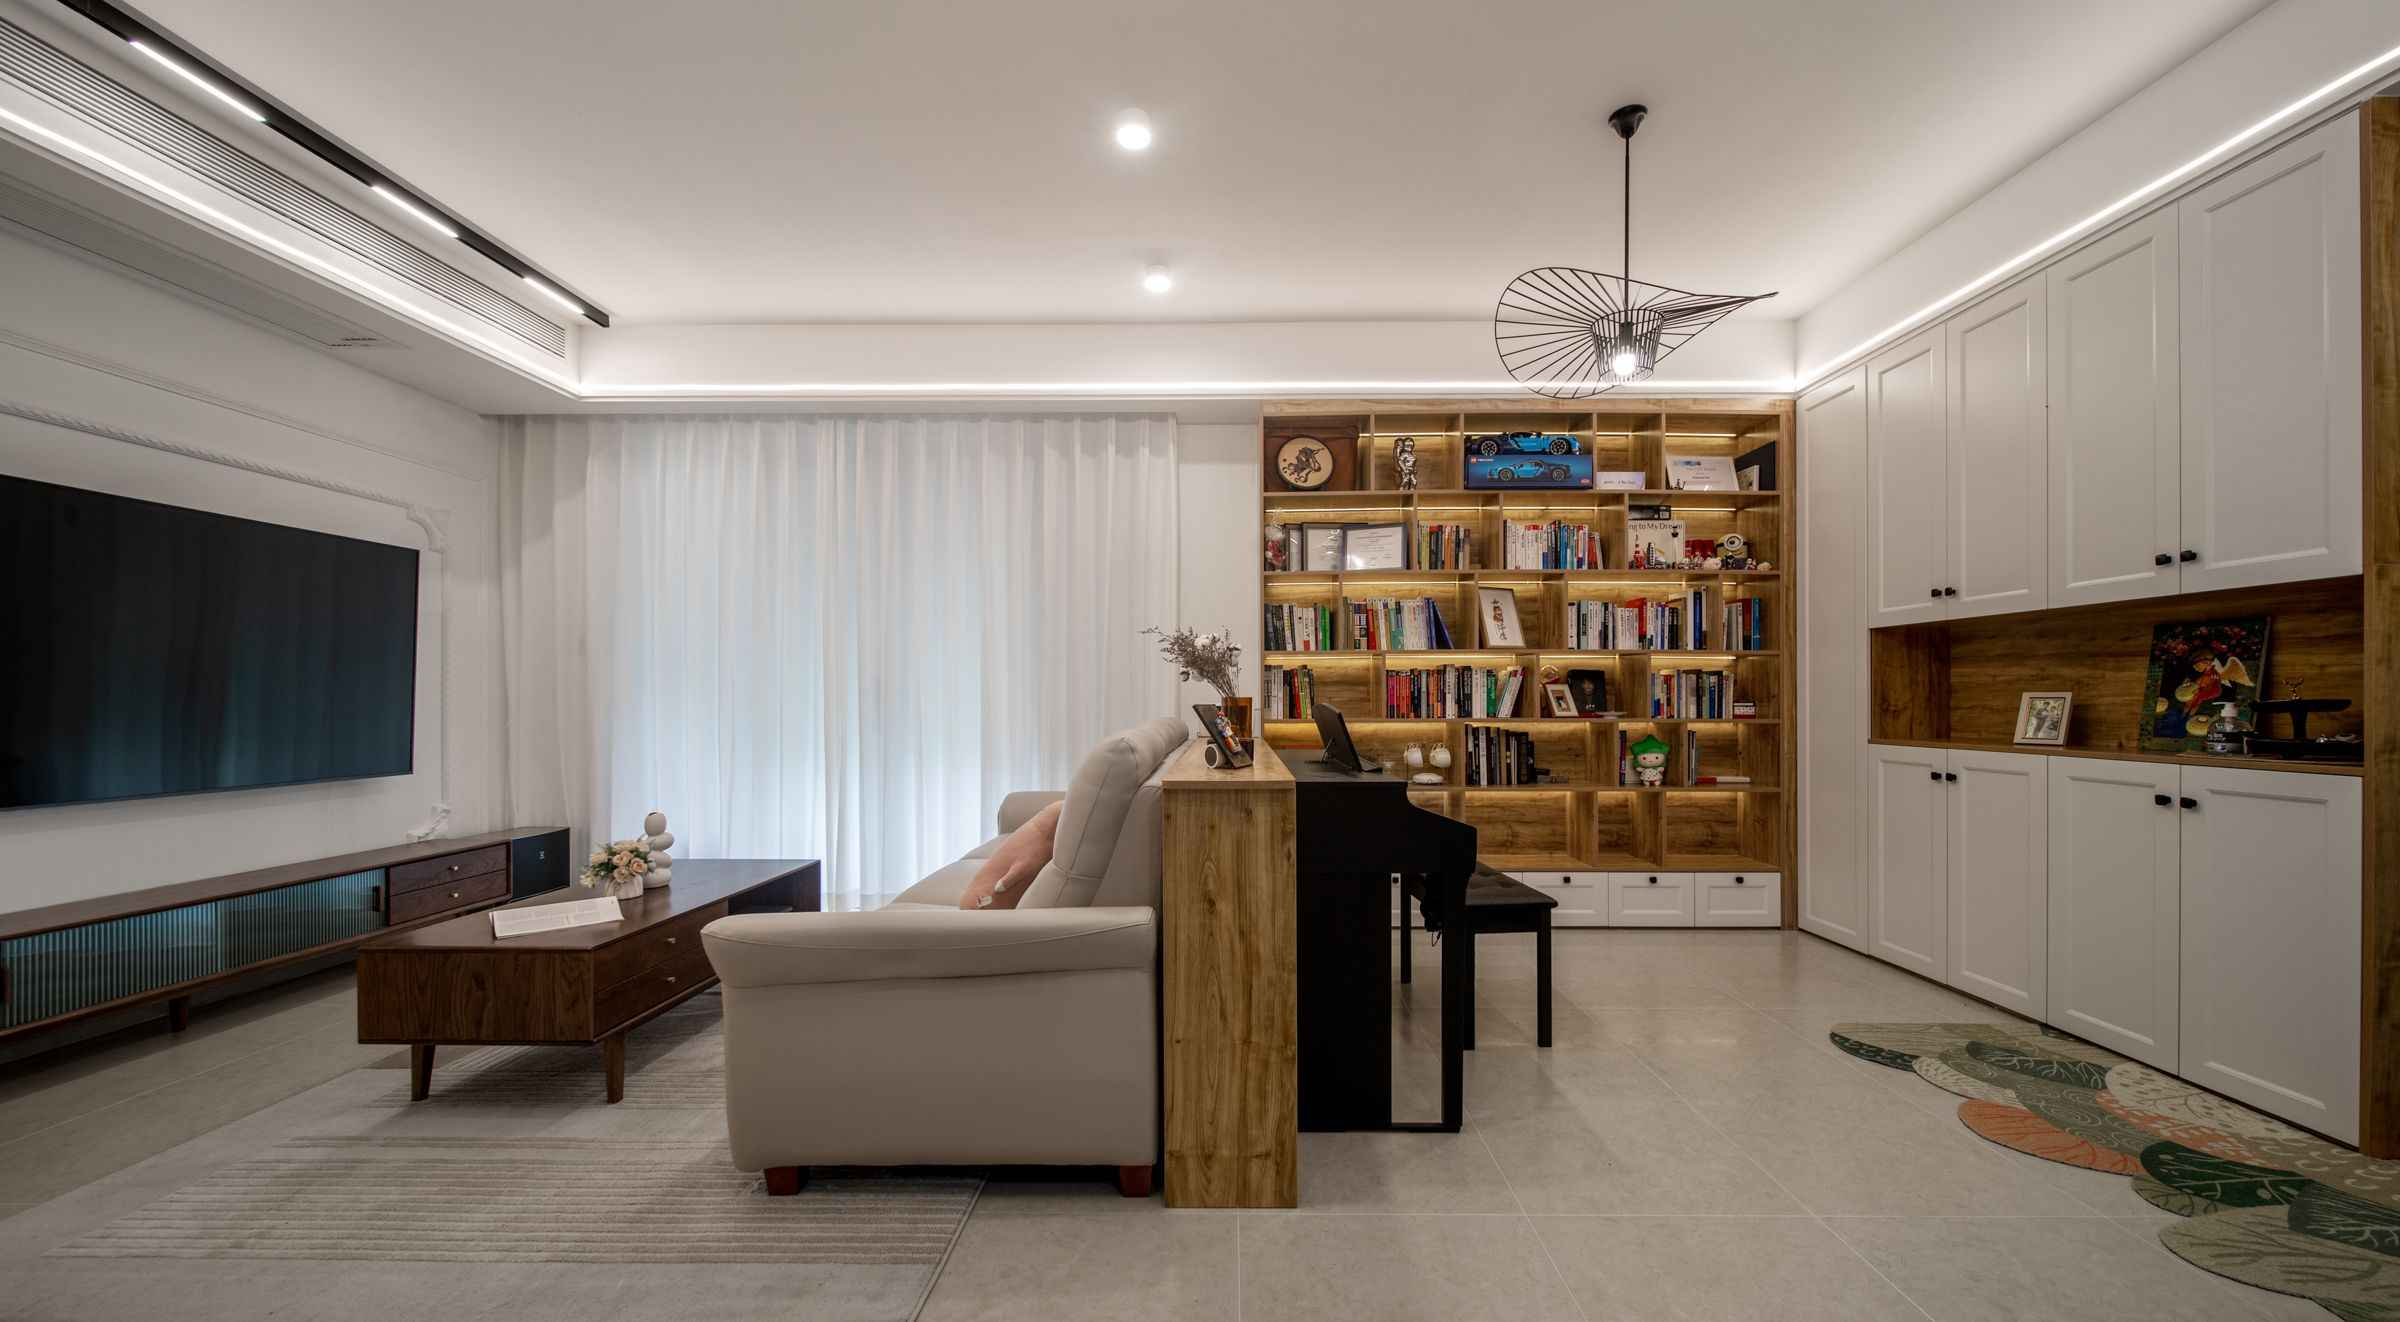
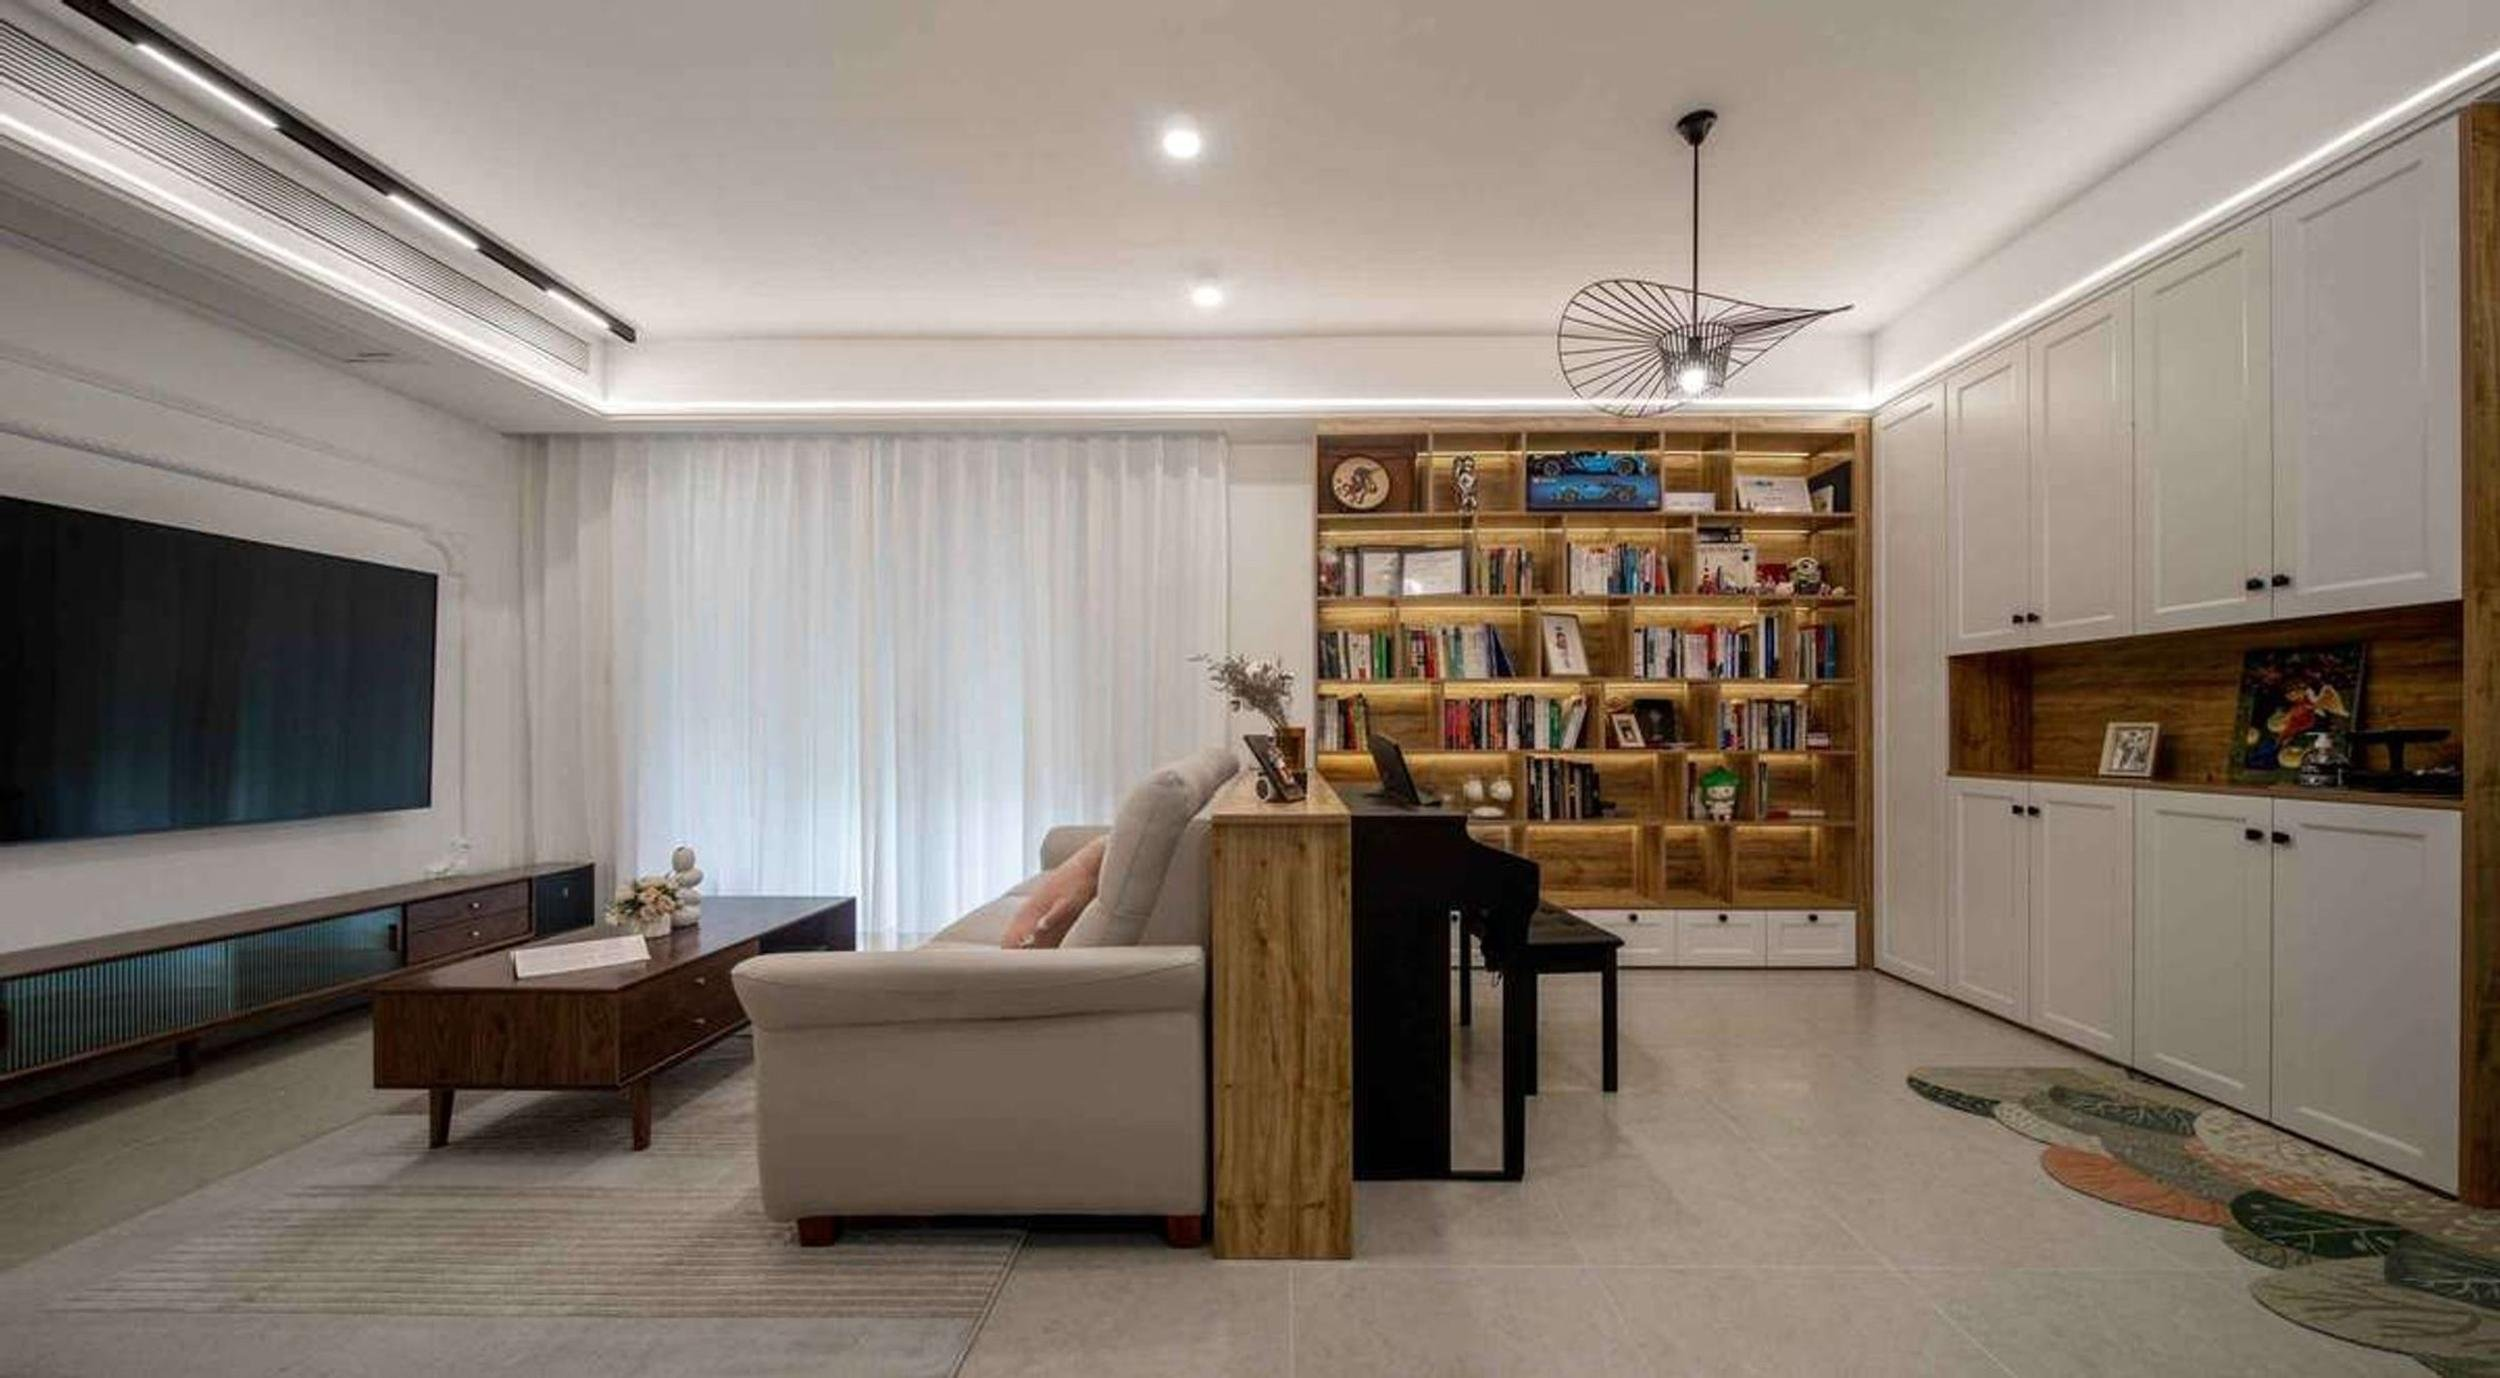
perf(图片压缩): 提高图片质量和尺寸以优化显示效果
将JPEG图片的压缩质量从60提高到85，并将宽度从1200增加到2500，以提升图片在文档中的显示效果

diff --git a/compress-images.js b/compress-images.js
@@ -13,8 +13,8 @@ async function compressImage(filePath) {
 
     if (ext === '.jpg' || ext === '.jpeg') {
       await sharp(filePath)
-        .resize({ width: 1200 })
-        .jpeg({ quality: 60 })
+        .resize({ width: 2500 })
+        .jpeg({ quality: 85 })
         .toFile(tempOutputPath);
     } else if (ext === '.png') {
       await sharp(filePath)
